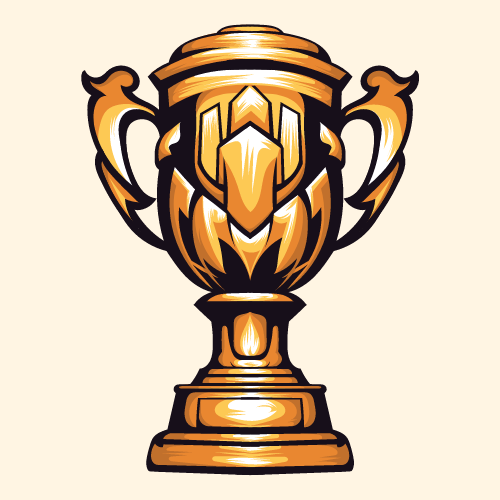
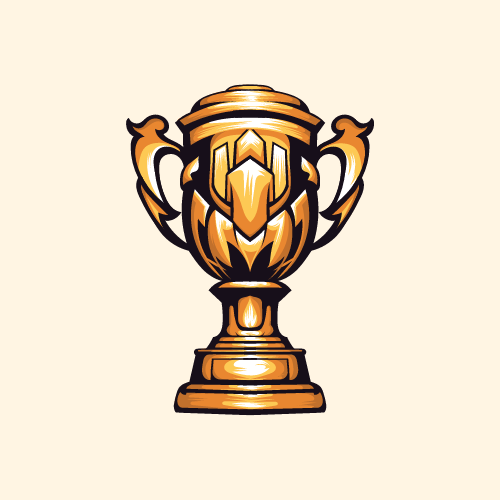
Final touches part 2

Changed region(s): [[0.15, 0.03, 0.84, 0.96]]

diff --git a/index.html b/index.html
@@ -31,7 +31,7 @@
 	</div>   
 	<div class="middle-container">
         <div class="profile">
-    		<img class="midlogo" src="img/Propicture-Photoroom.jpg" alt="profilepic">
+    		<img class="midlogo" src="img/finalafterphotoshop.png" alt="profilepic">
     		<h2>About Me...</h2>
     		<p class="p2">As a Computer Science Undergraduate, I am dedicated to furthering my knowledge and skills in the fields of IT and Business. Self-Motivated and process-oriented, I have a passion for continuous learning and Personal Development. My track record demonstrates a proven ability to thrive in high-pressure environments, where I consistently deliver results on time. <br> <br>I excel in collaborating with diverse teams, leveraging my strong communication and interpersonal skills to foster cooperation and drive success. With a keen eye for detail and a commitment to excellence, I am eager to tackle new challenges and make meaningful contributions in the ever-evolving landscape of technology and business.</p>
   		</div>

diff --git a/style.css b/style.css
@@ -402,8 +402,8 @@ ul li a:hover{
   
 }
 .midlogo{
-	width: 480px;
-	height: 480px;
+	width: 580px;
+	height: 580px;
 	padding-top: 80px;
 }
 #f{
